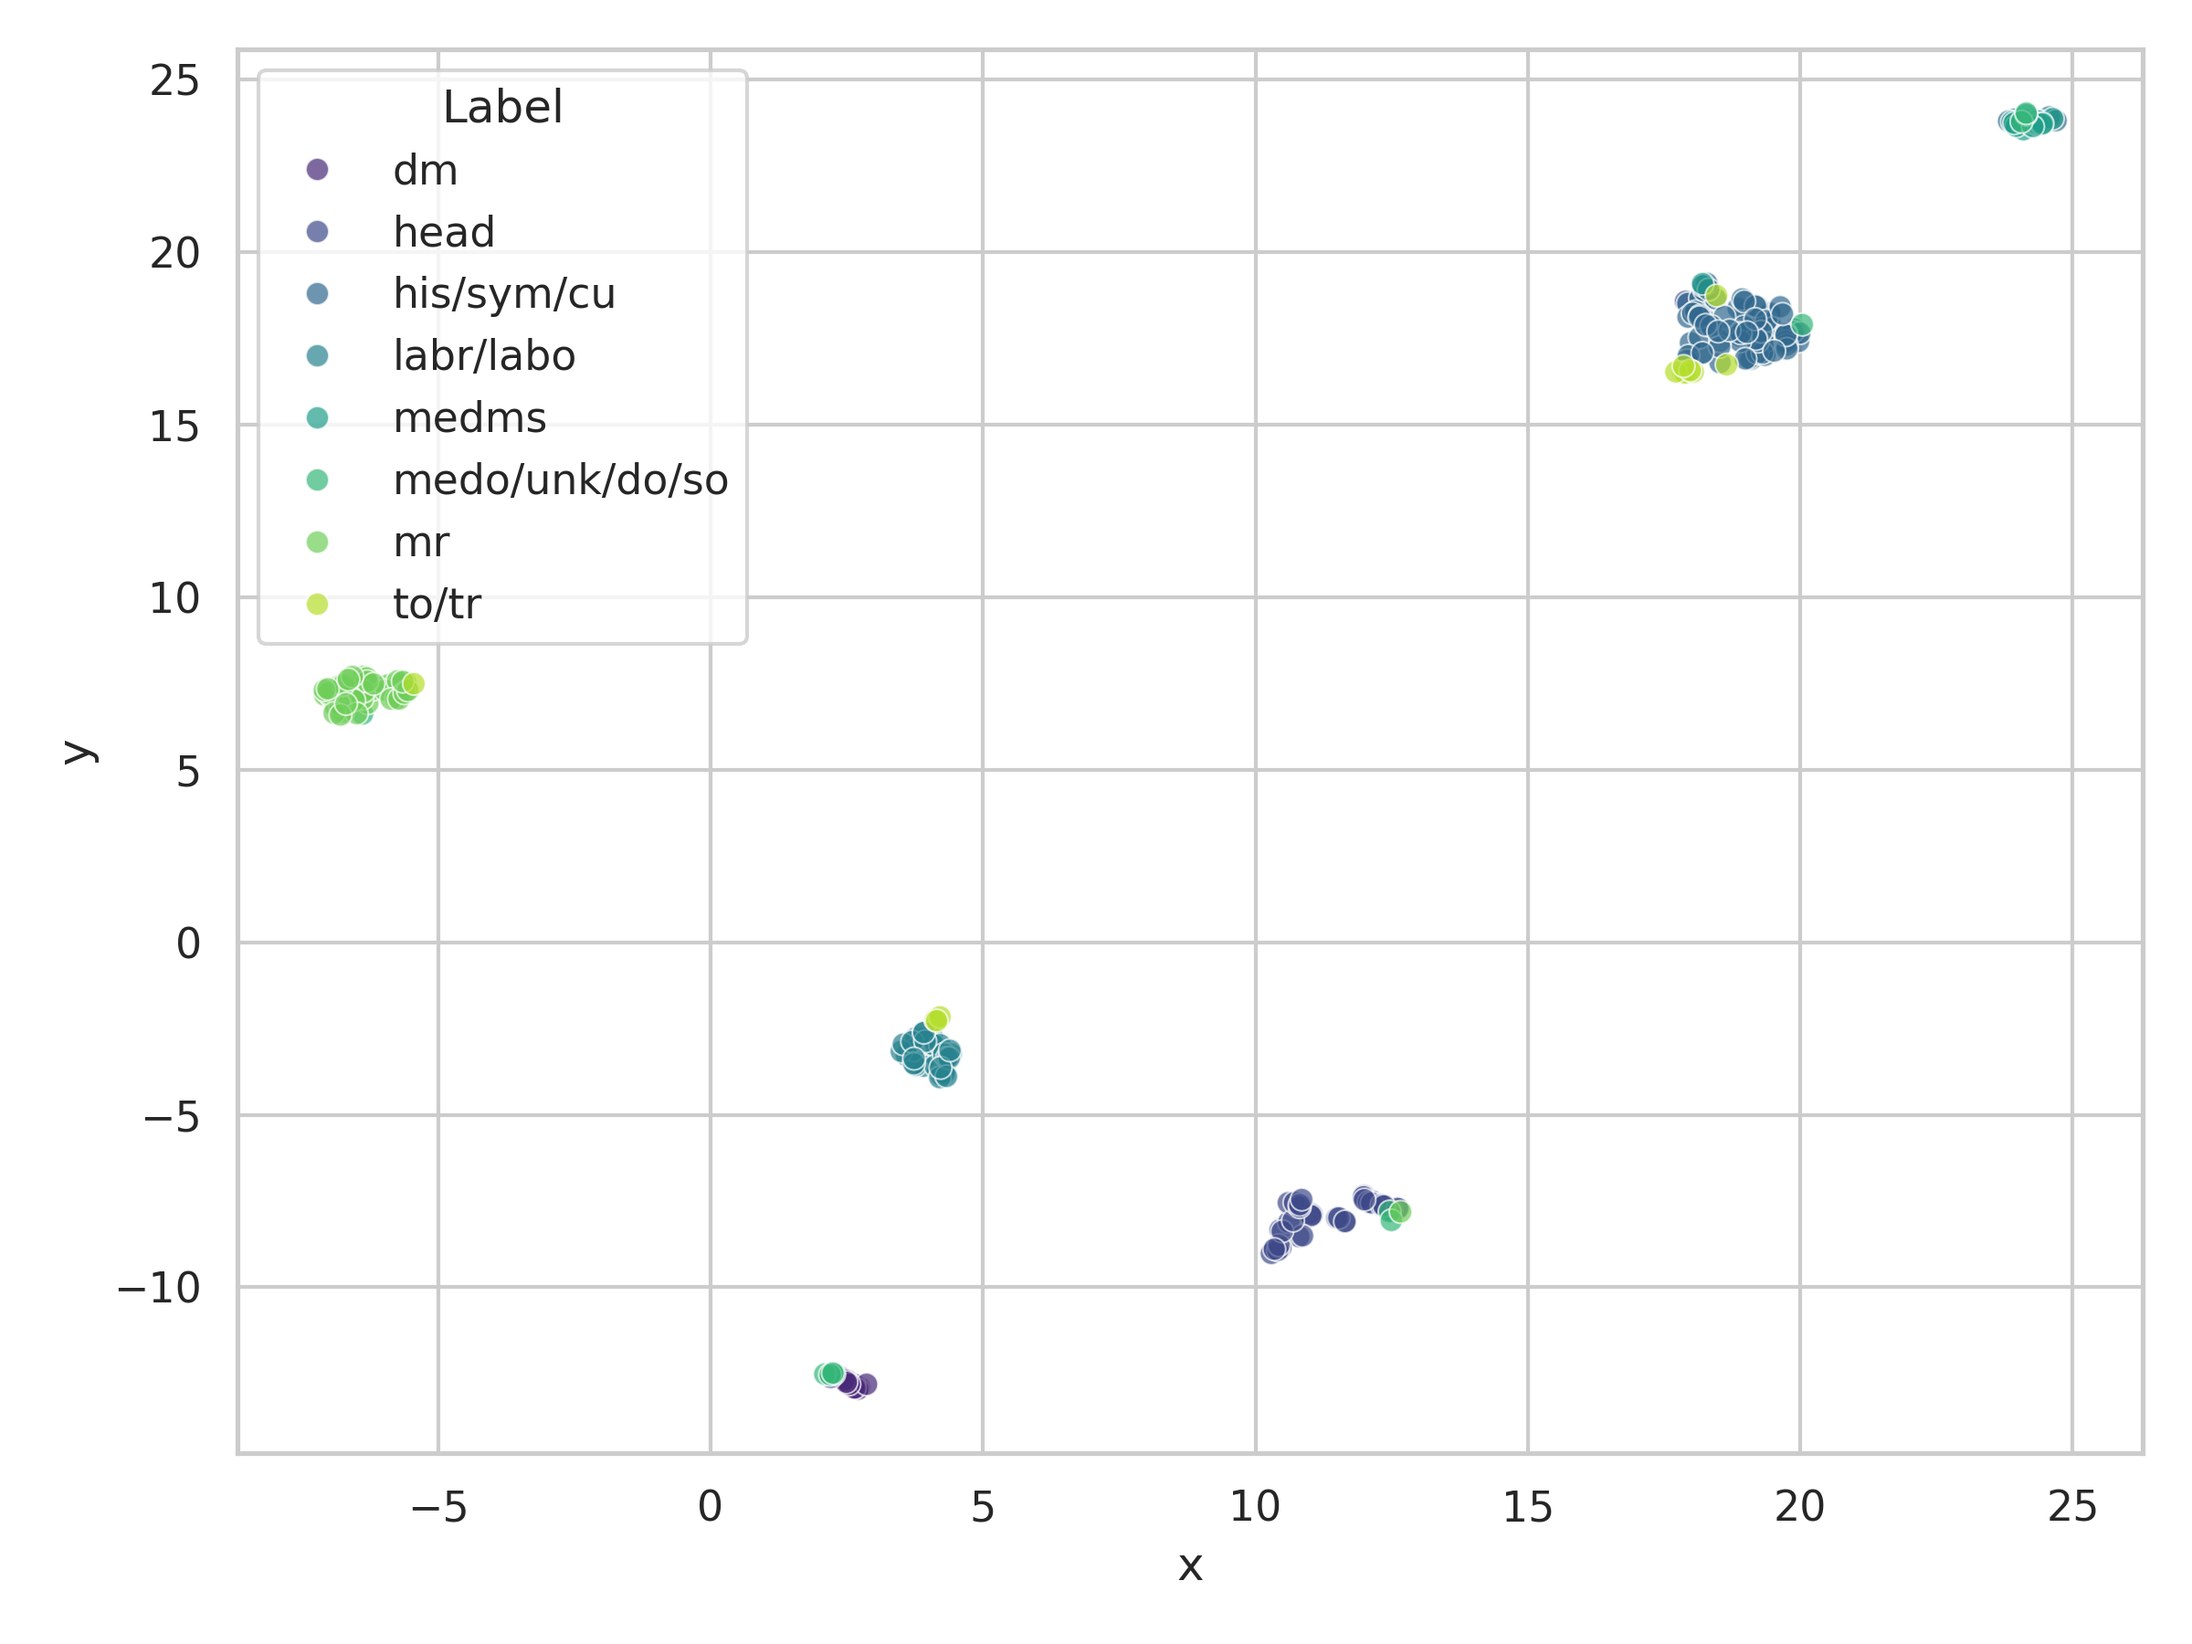
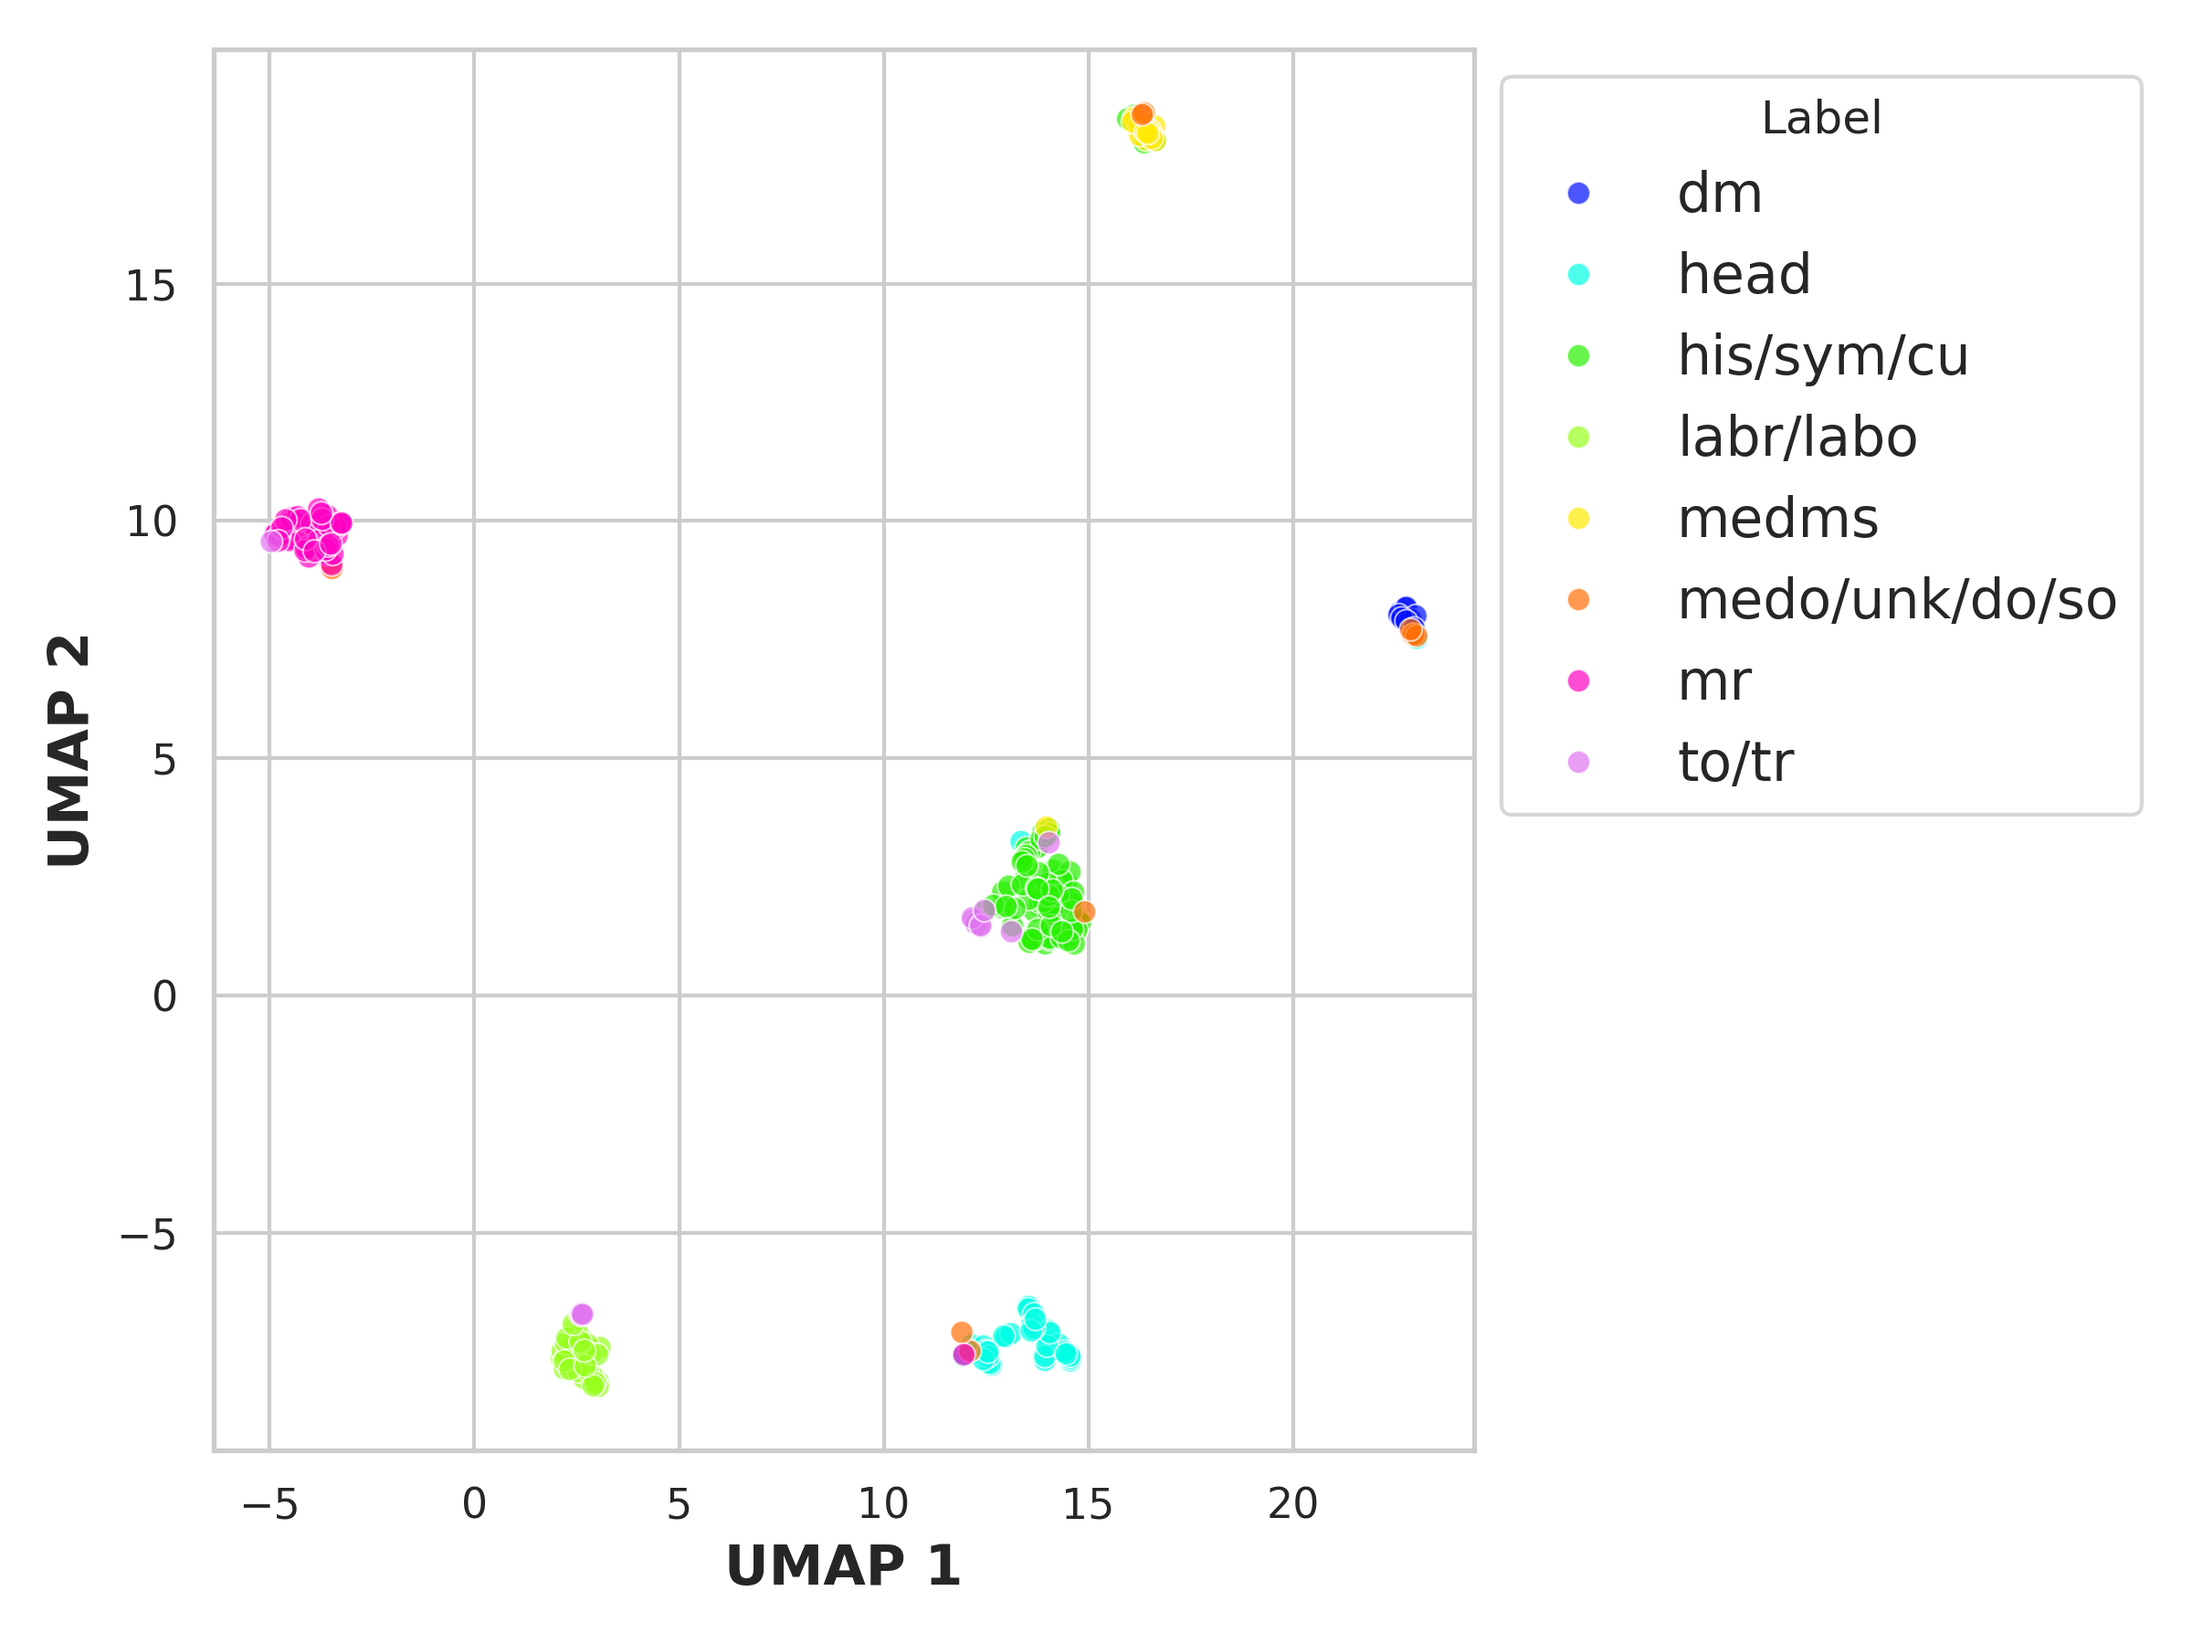
increased readability of plots for thesis

diff --git a/src/utils.py b/src/utils.py
@@ -819,11 +819,13 @@ def plot_embeddings(embeddings: torch.tensor, labels: list[int], title="", metho
     # Plot using Seaborn
     plt.figure(figsize=(8, 6))
     sns.set_theme(style='whitegrid')
-    sns.scatterplot(data=df_embeddings, x='x', y='y', hue='label', palette='viridis', alpha=0.7)
+    sns.scatterplot(data=df_embeddings, x='x', y='y', hue='label', palette='gist_ncar', alpha=0.7)
+    plt.xlabel(f'{method.upper()} 1', fontsize='large', fontweight='bold')
+    plt.ylabel(f'{method.upper()} 2', fontsize='large', fontweight='bold')
     
     # Add a title and legend
     plt.title(title)
-    plt.legend(title='Label', loc='upper left')
+    plt.legend(title='Label', loc='upper left', bbox_to_anchor=(1, 1), fontsize='large')
     
     # Show plot
     plt.tight_layout()
@@ -886,10 +888,10 @@ def pretty_confusion_matrix(y_true:list[int], y_pred:list[int], label_dict:dict[
     sns.set_theme(font_scale=1.2)  # Adjust font size for labels
     sns.heatmap(cm, annot=True, fmt='d', cmap=custom_cmap, cbar=False,
                 yticklabels=sorted_labels, xticklabels=sorted_labels, alpha=0.9, linewidths=0.5, linecolor='lightgrey')
-    plt.xlabel('Predicted Label')
-    plt.ylabel('True Label')
-    plt.xticks(rotation=45, ha='right')  # Rotate x-axis labels for better readability
-    plt.yticks(rotation=0)
+    plt.xlabel('Predicted Label', fontsize=20, fontweight='bold', labelpad=15)
+    plt.ylabel('True Label', fontsize=20, fontweight='bold', labelpad=20)
+    plt.xticks(rotation=45, ha='right', fontsize = 16)  # Rotate x-axis labels for better readability
+    plt.yticks(rotation=0, fontsize = 16)
     plt.grid(False)
     plt.tight_layout()
     plt.title(title)
